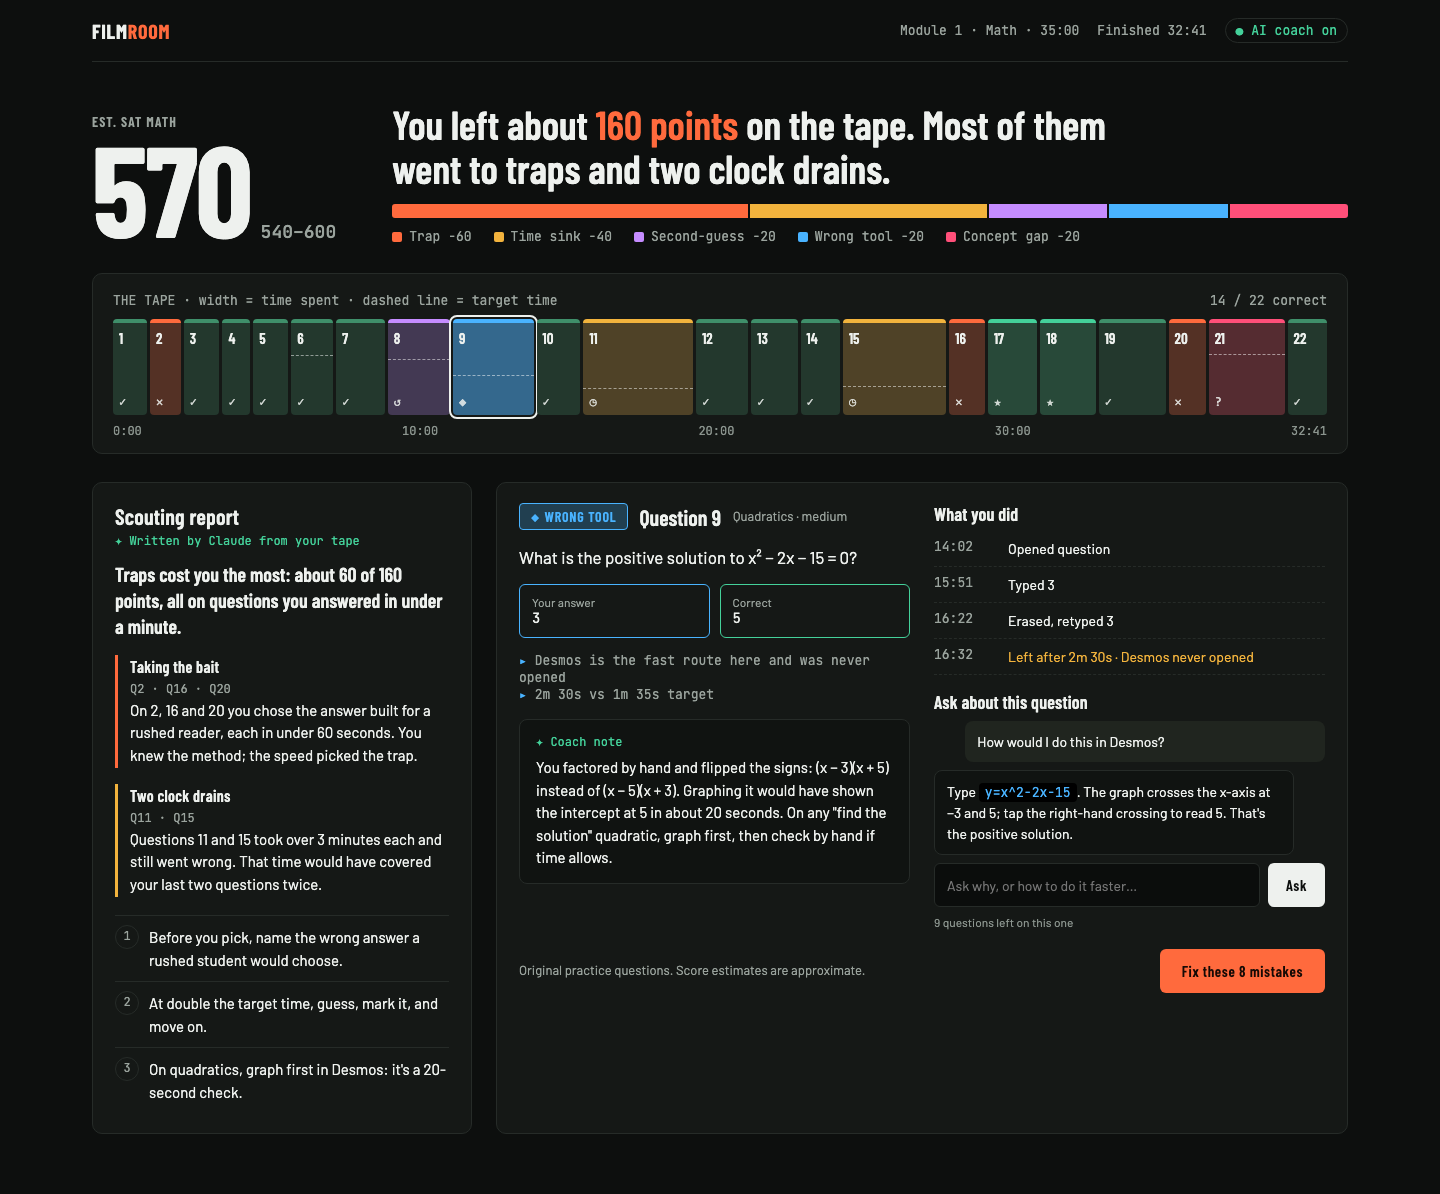
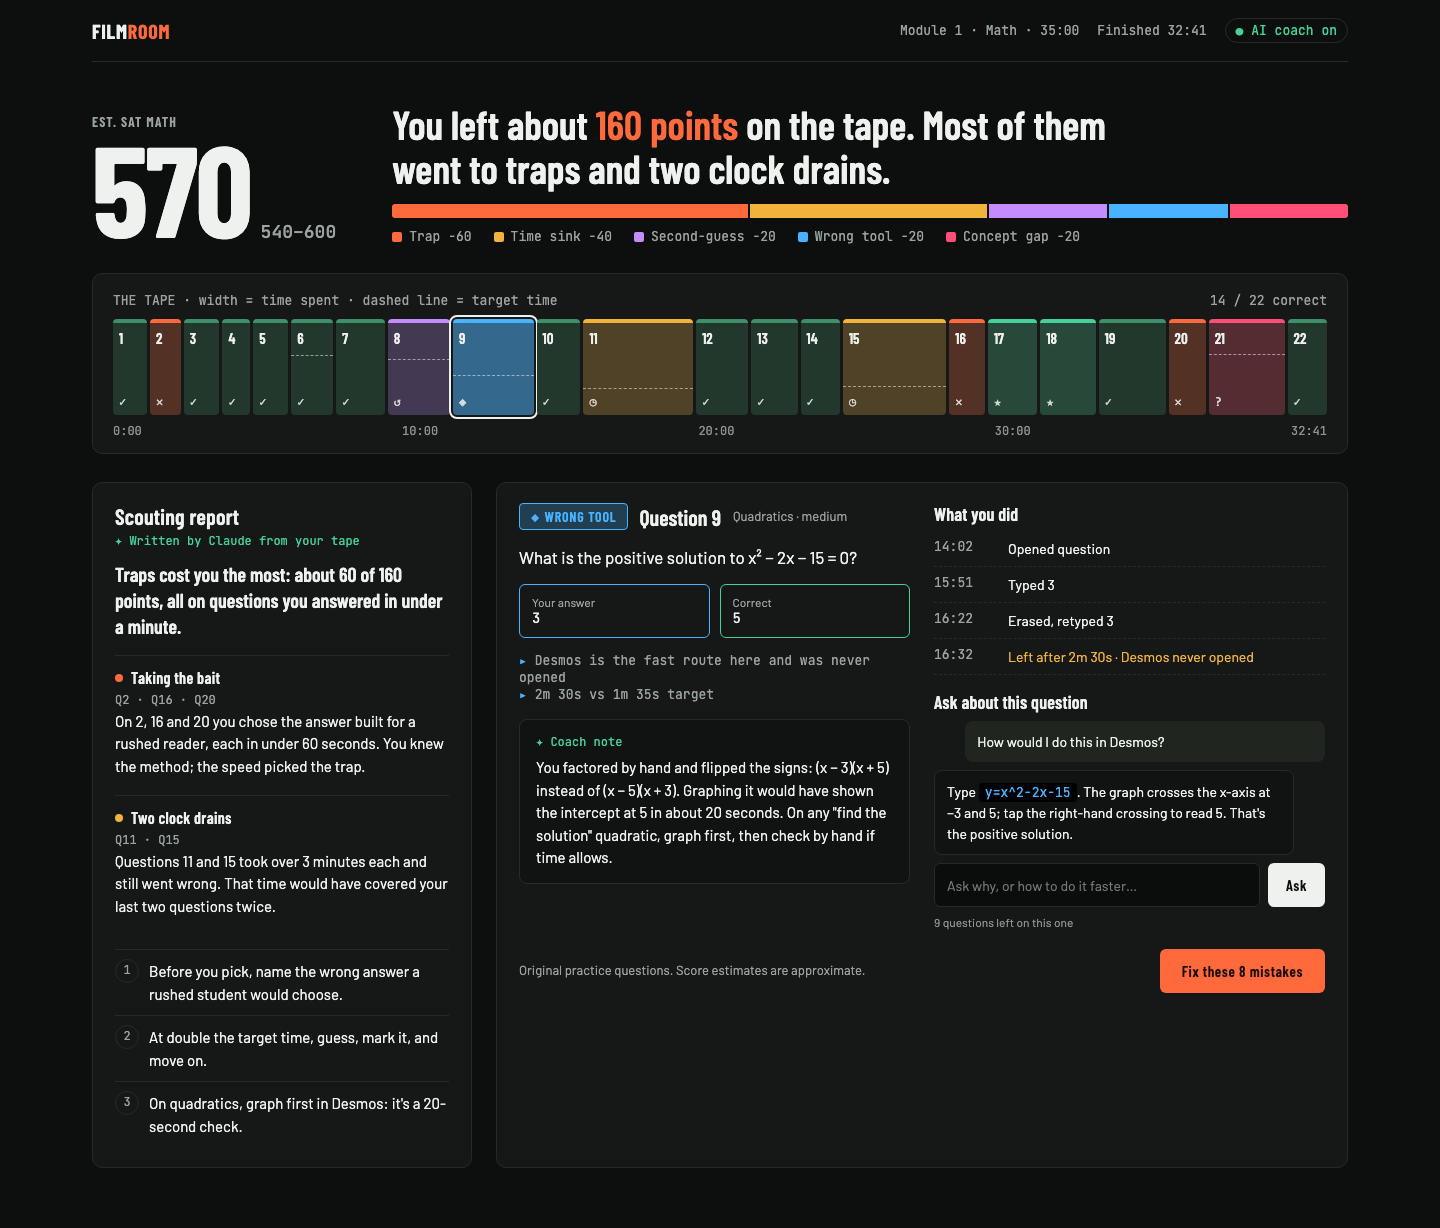
design: address hook findings on directions A and C

diff --git a/design/replay-directions/c.html b/design/replay-directions/c.html
@@ -45,8 +45,8 @@
 
   main { padding: 28px 36px 60px; max-width: 1100px; }
   .headline { font: 600 32px/1.2 var(--sans); letter-spacing: -.02em; margin: 0 0 18px; max-width: 820px; }
-  .stack { display: flex; height: 28px; border: 1px solid var(--ink); }
-  .stack div { display: flex; align-items: center; padding-left: 8px; font: 500 12px var(--mono); color: #fff; background: var(--c); border-right: 1px solid #fff; white-space: nowrap; overflow: hidden; }
+  .stack { display: flex; height: 32px; border: 1px solid var(--ink); }
+  .stack div { display: flex; align-items: center; padding: 0 10px; font: 500 12px var(--mono); color: #fff; background: var(--c); border-right: 1px solid #fff; white-space: nowrap; overflow: hidden; }
   .stack .rest { background: var(--bg); color: var(--mute); border-right: 0; }
   .scale { display: flex; justify-content: space-between; font: 12px var(--mono); color: var(--mute); margin-top: 6px; }
 

diff --git a/design/replay-directions/a.html b/design/replay-directions/a.html
@@ -52,7 +52,8 @@
   .card h2 { font: 600 22px var(--cond); margin: 0 0 4px; letter-spacing: .01em; }
   .card .sub { color: var(--mute); font-size: 13px; margin-bottom: 16px; }
   .scout p.head { font: 600 20px/1.3 var(--cond); margin: 0 0 16px; }
-  .pattern { border-left: 3px solid var(--c); padding: 2px 0 2px 12px; margin-bottom: 16px; }
+  .pattern { padding: 12px 0 14px; margin-bottom: 4px; border-top: 1px solid var(--line); }
+  .pattern b::before { content: ""; display: inline-block; width: 8px; height: 8px; border-radius: 50%; background: var(--c); margin-right: 8px; vertical-align: 2px; }
   .pattern b { font: 600 16px var(--cond); letter-spacing: .02em; display: block; }
   .pattern .qs { font: 12px var(--mono); color: var(--mute); }
   .habits { margin: 18px 0 0; padding: 0; list-style: none; counter-reset: h; }
